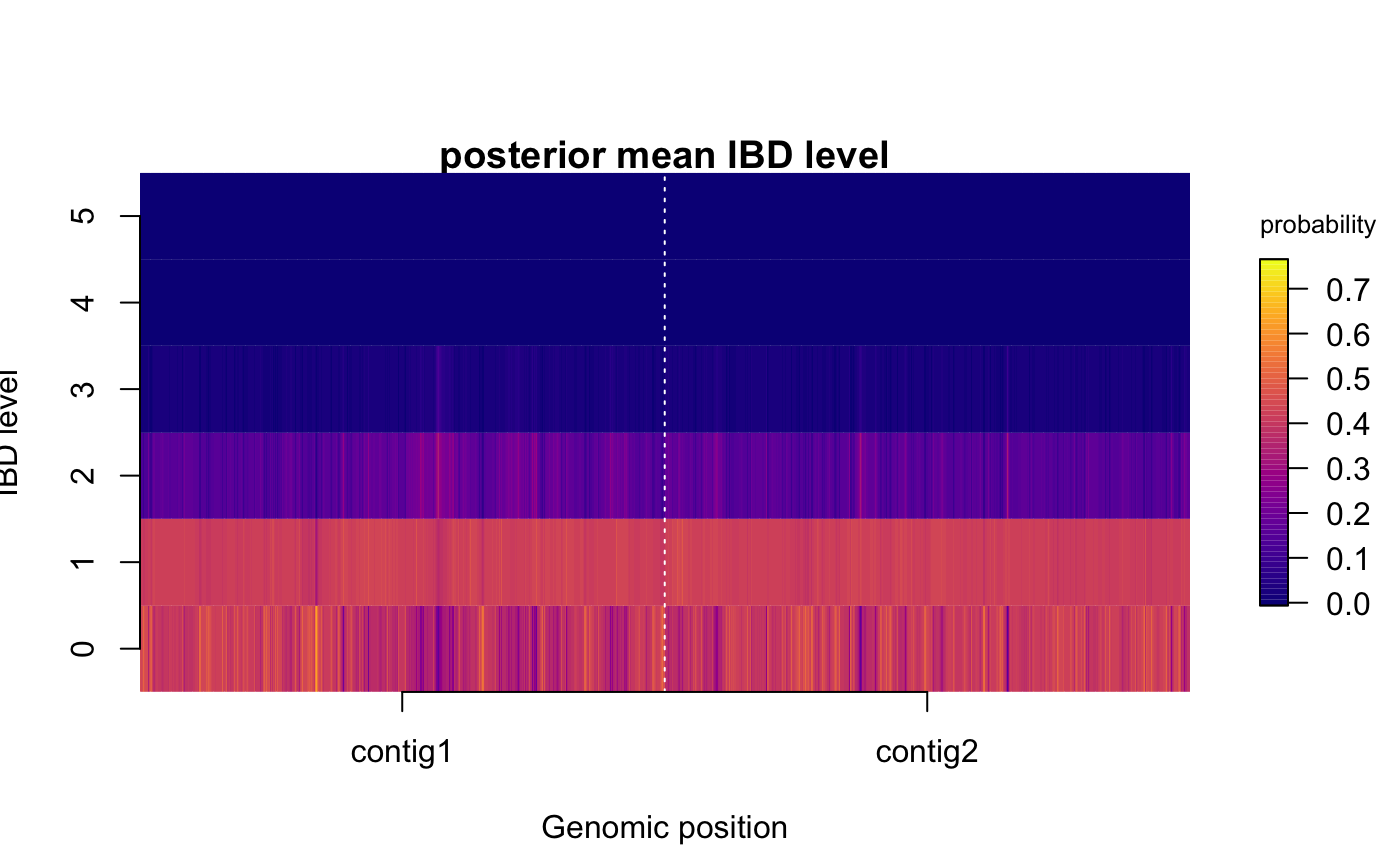
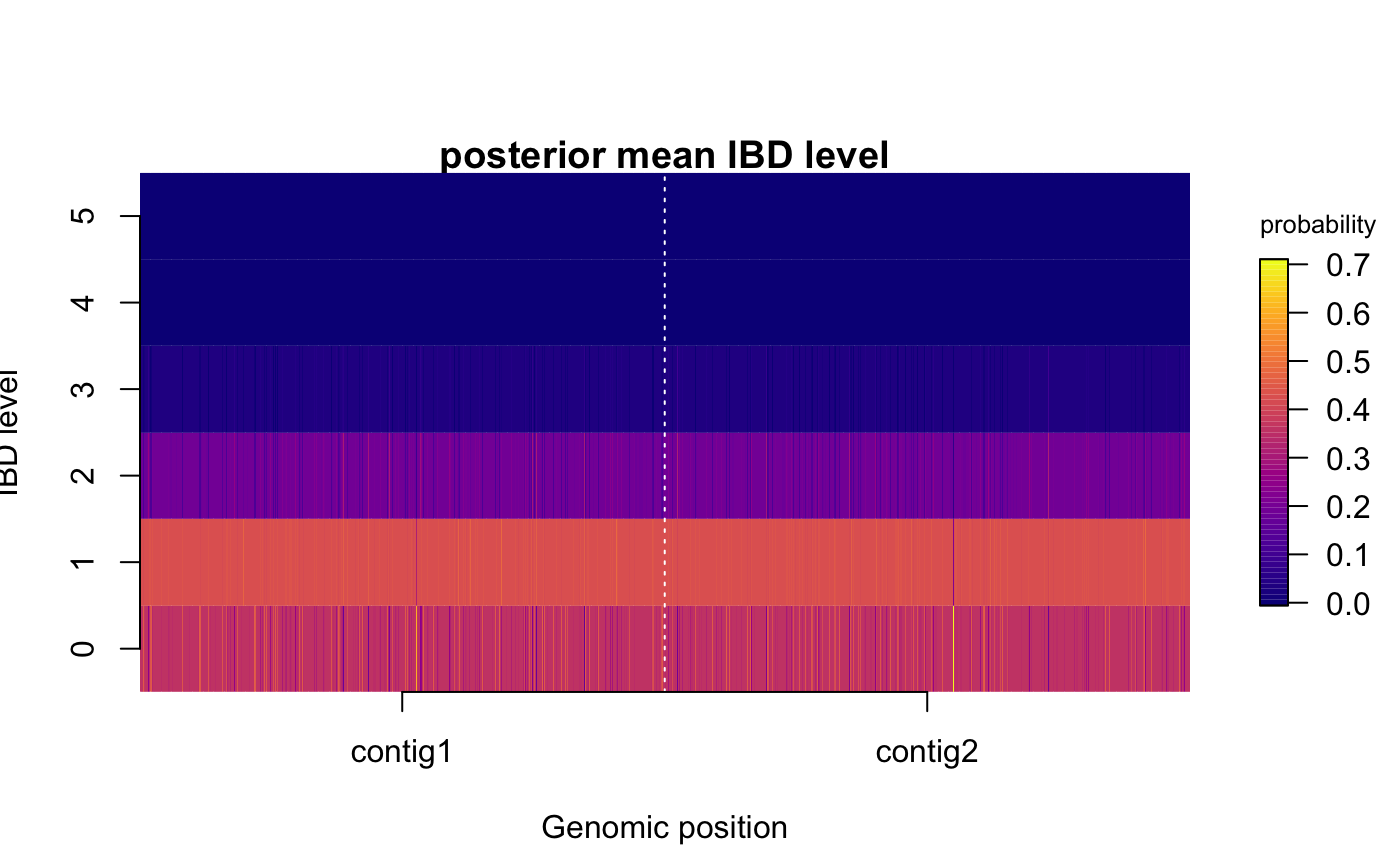
rebuild before cpp FINAL

diff --git a/docs/articles/polyIBD.html b/docs/articles/polyIBD.html
@@ -71,7 +71,7 @@
 </h1>
                         <h4 class="author">Nicholas F. Brazeau &amp; Robert Verity</h4>
             
-            <h4 class="date">May 21, 2018</h4>
+            <h4 class="date">May 31, 2018</h4>
       
       <small class="dont-index">Source: <a href="https://github.com/nickbrazeau/polyIBD/blob/master/vignettes/polyIBD.Rmd"><code>vignettes/polyIBD.Rmd</code></a></small>
       <div class="hidden name"><code>polyIBD.Rmd</code></div>
@@ -134,29 +134,29 @@ sim &lt;-<span class="st"> </span><span class="kw"><a href="../reference/simData
 <h2 class="hasAnchor">
 <a href="#running-the-mcmc" class="anchor"></a>Running the MCMC</h2>
 <div class="sourceCode"><pre class="sourceCode r"><code class="sourceCode r"><span class="co"># run MCMC</span>
-rho_max &lt;-<span class="st"> </span>rho_true<span class="op">*</span><span class="dv">100</span> <span class="co"># this is user-specified</span>
+rho_max &lt;-<span class="st"> </span>rho_true<span class="op">*</span><span class="dv">10000</span> <span class="co"># this is user-specified</span>
 ret &lt;-<span class="st"> </span><span class="kw"><a href="../reference/runMCMC.html">runMCMC</a></span>(<span class="dt">vcf=</span>sim<span class="op">$</span>vcf, <span class="dt">p=</span>sim<span class="op">$</span>p, <span class="dt">rho_max=</span>rho_max,
                <span class="dt">burnin=</span><span class="fl">5e3</span>, <span class="dt">samples=</span><span class="fl">1e4</span>, <span class="dt">reportIteration=</span><span class="ot">NA</span>) <span class="co"># turning off report iteration for space</span>
 <span class="co">#&gt; Running MCMC</span>
 <span class="co">#&gt;    burnin phase</span>
 <span class="co">#&gt;    sampling phase</span>
-<span class="co">#&gt; MCMC completed in 34.4422 seconds</span>
-<span class="co">#&gt; convergence reached within defined burn-in period (Geweke p=0.45)</span></code></pre></div>
+<span class="co">#&gt; MCMC completed in 28.5842 seconds</span>
+<span class="co">#&gt; convergence reached within defined burn-in period (Geweke p=0.293)</span></code></pre></div>
 <p>From the MCMC, a polyIBD class object is returned that contians both summary statistics and raw data. The summary statistics and raw data can be interrogated directly. ### Summary Data Summary of the user-specified parameters for the MCMC burn-in and sampling iterations, acceptance rate (<em>ideally should be around 23%</em>), and the run-time of the function.<br>
 In addition, posterior estimates with median and 95% confidence intervals provided.</p>
 <div class="sourceCode"><pre class="sourceCode r"><code class="sourceCode r">ret <span class="co"># is equivalent to summary(ret)</span>
 <span class="co">#&gt; # MCMC summary</span>
 <span class="co">#&gt; burn-in iterations:   5000 </span>
 <span class="co">#&gt; sampling iterations:  10000 </span>
-<span class="co">#&gt; acceptance rate:  0.2697 </span>
-<span class="co">#&gt; run-time (seconds):   34.442 </span>
+<span class="co">#&gt; acceptance rate:  0.369 </span>
+<span class="co">#&gt; run-time (seconds):   28.584 </span>
 <span class="co">#&gt; </span>
 <span class="co">#&gt; # Posterior estimates</span>
-<span class="co">#&gt;              5%       50%       95%</span>
-<span class="co">#&gt; m1  3.000000000 3.0000000 4.0000000</span>
-<span class="co">#&gt; m2  3.000000000 3.0000000 3.0000000</span>
-<span class="co">#&gt; f   0.167903760 0.2641291 0.3716628</span>
-<span class="co">#&gt; rho 0.004621724 0.1681034 0.4653631</span></code></pre></div>
+<span class="co">#&gt;            5%        50%        95%</span>
+<span class="co">#&gt; m1  3.0000000  3.0000000  3.0000000</span>
+<span class="co">#&gt; m2  3.0000000  3.0000000  3.0000000</span>
+<span class="co">#&gt; f   0.1955568  0.2921017  0.3857033</span>
+<span class="co">#&gt; rho 2.6243926 24.6966880 47.4062323</span></code></pre></div>
 <div id="raw-data" class="section level3">
 <h3 class="hasAnchor">
 <a href="#raw-data" class="anchor"></a>Raw Data</h3>
@@ -233,8 +233,6 @@ gridExtra<span class="op">::</span><span class="kw"><a href="http://www.rdocumen
 <div class="sourceCode"><pre class="sourceCode r"><code class="sourceCode r">
 
 <span class="kw"><a href="../reference/ggplot_IBD.html">ggplot_IBD</a></span>(ret)
-<span class="co">#&gt; Loading required package: viridis</span>
-<span class="co">#&gt; Loading required package: viridisLite</span>
 <span class="co">#&gt; Scale for 'fill' is already present. Adding another scale for 'fill',</span>
 <span class="co">#&gt; which will replace the existing scale.</span></code></pre></div>
 <p><img src="polyIBD_files/figure-html/unnamed-chunk-7-2.png" width="700"></p>
